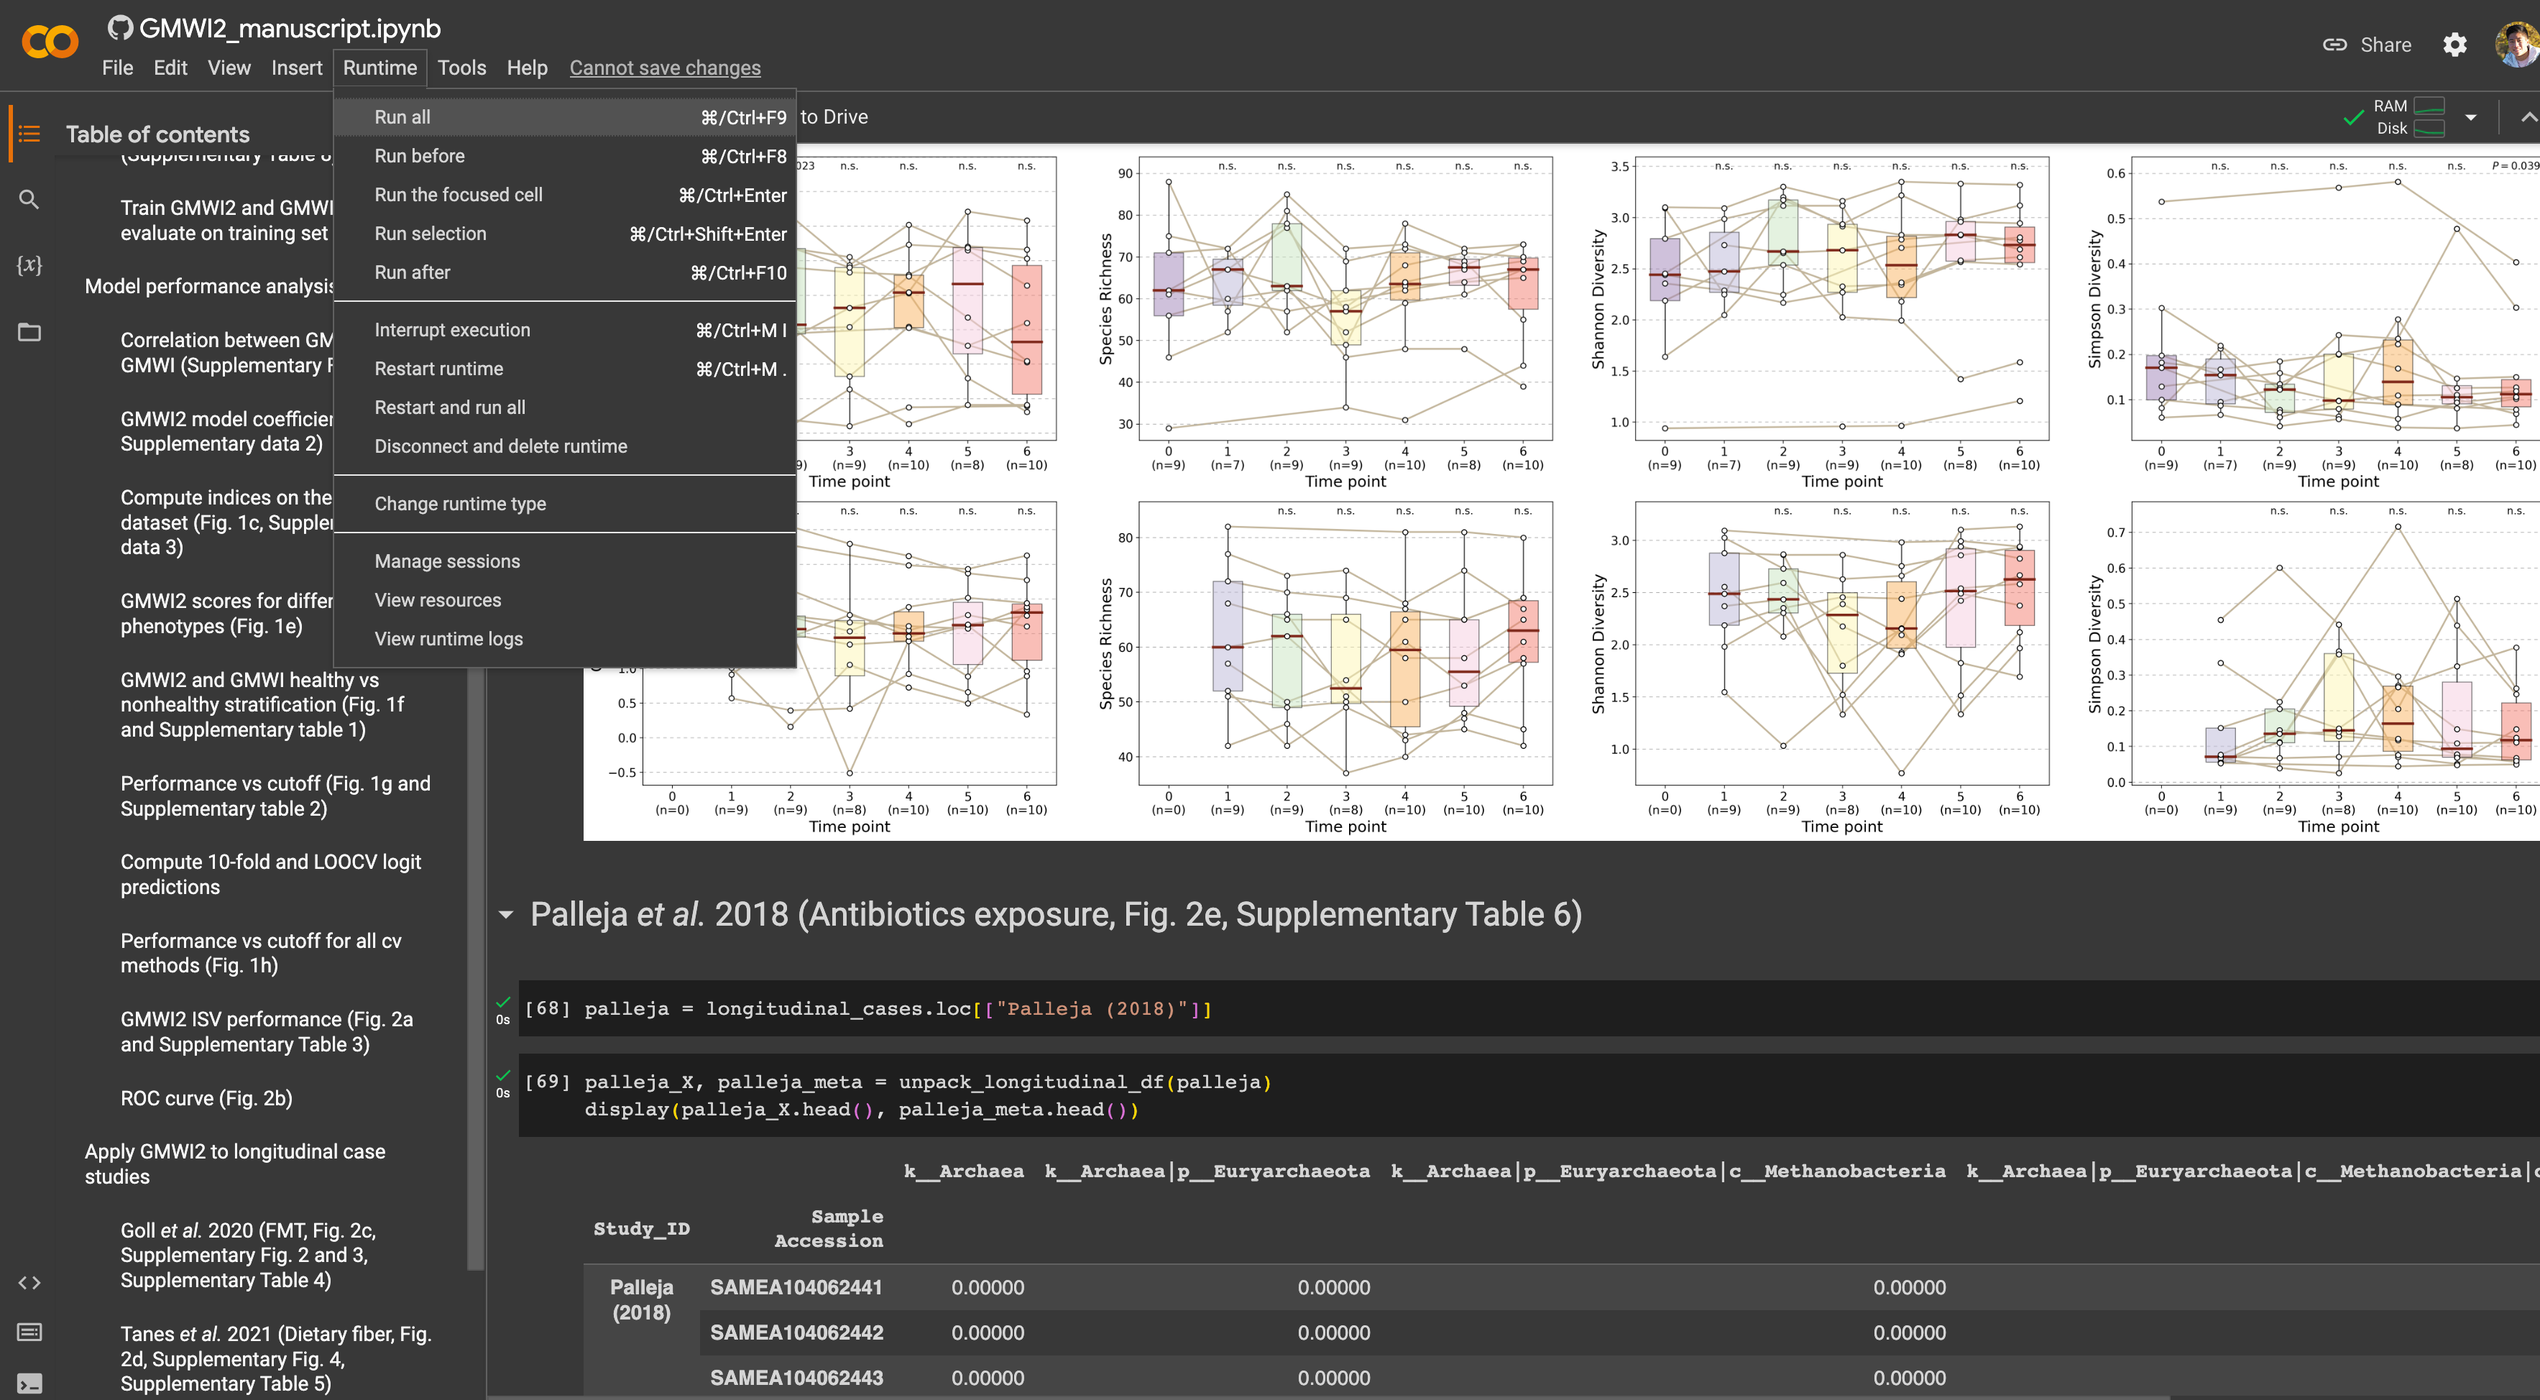
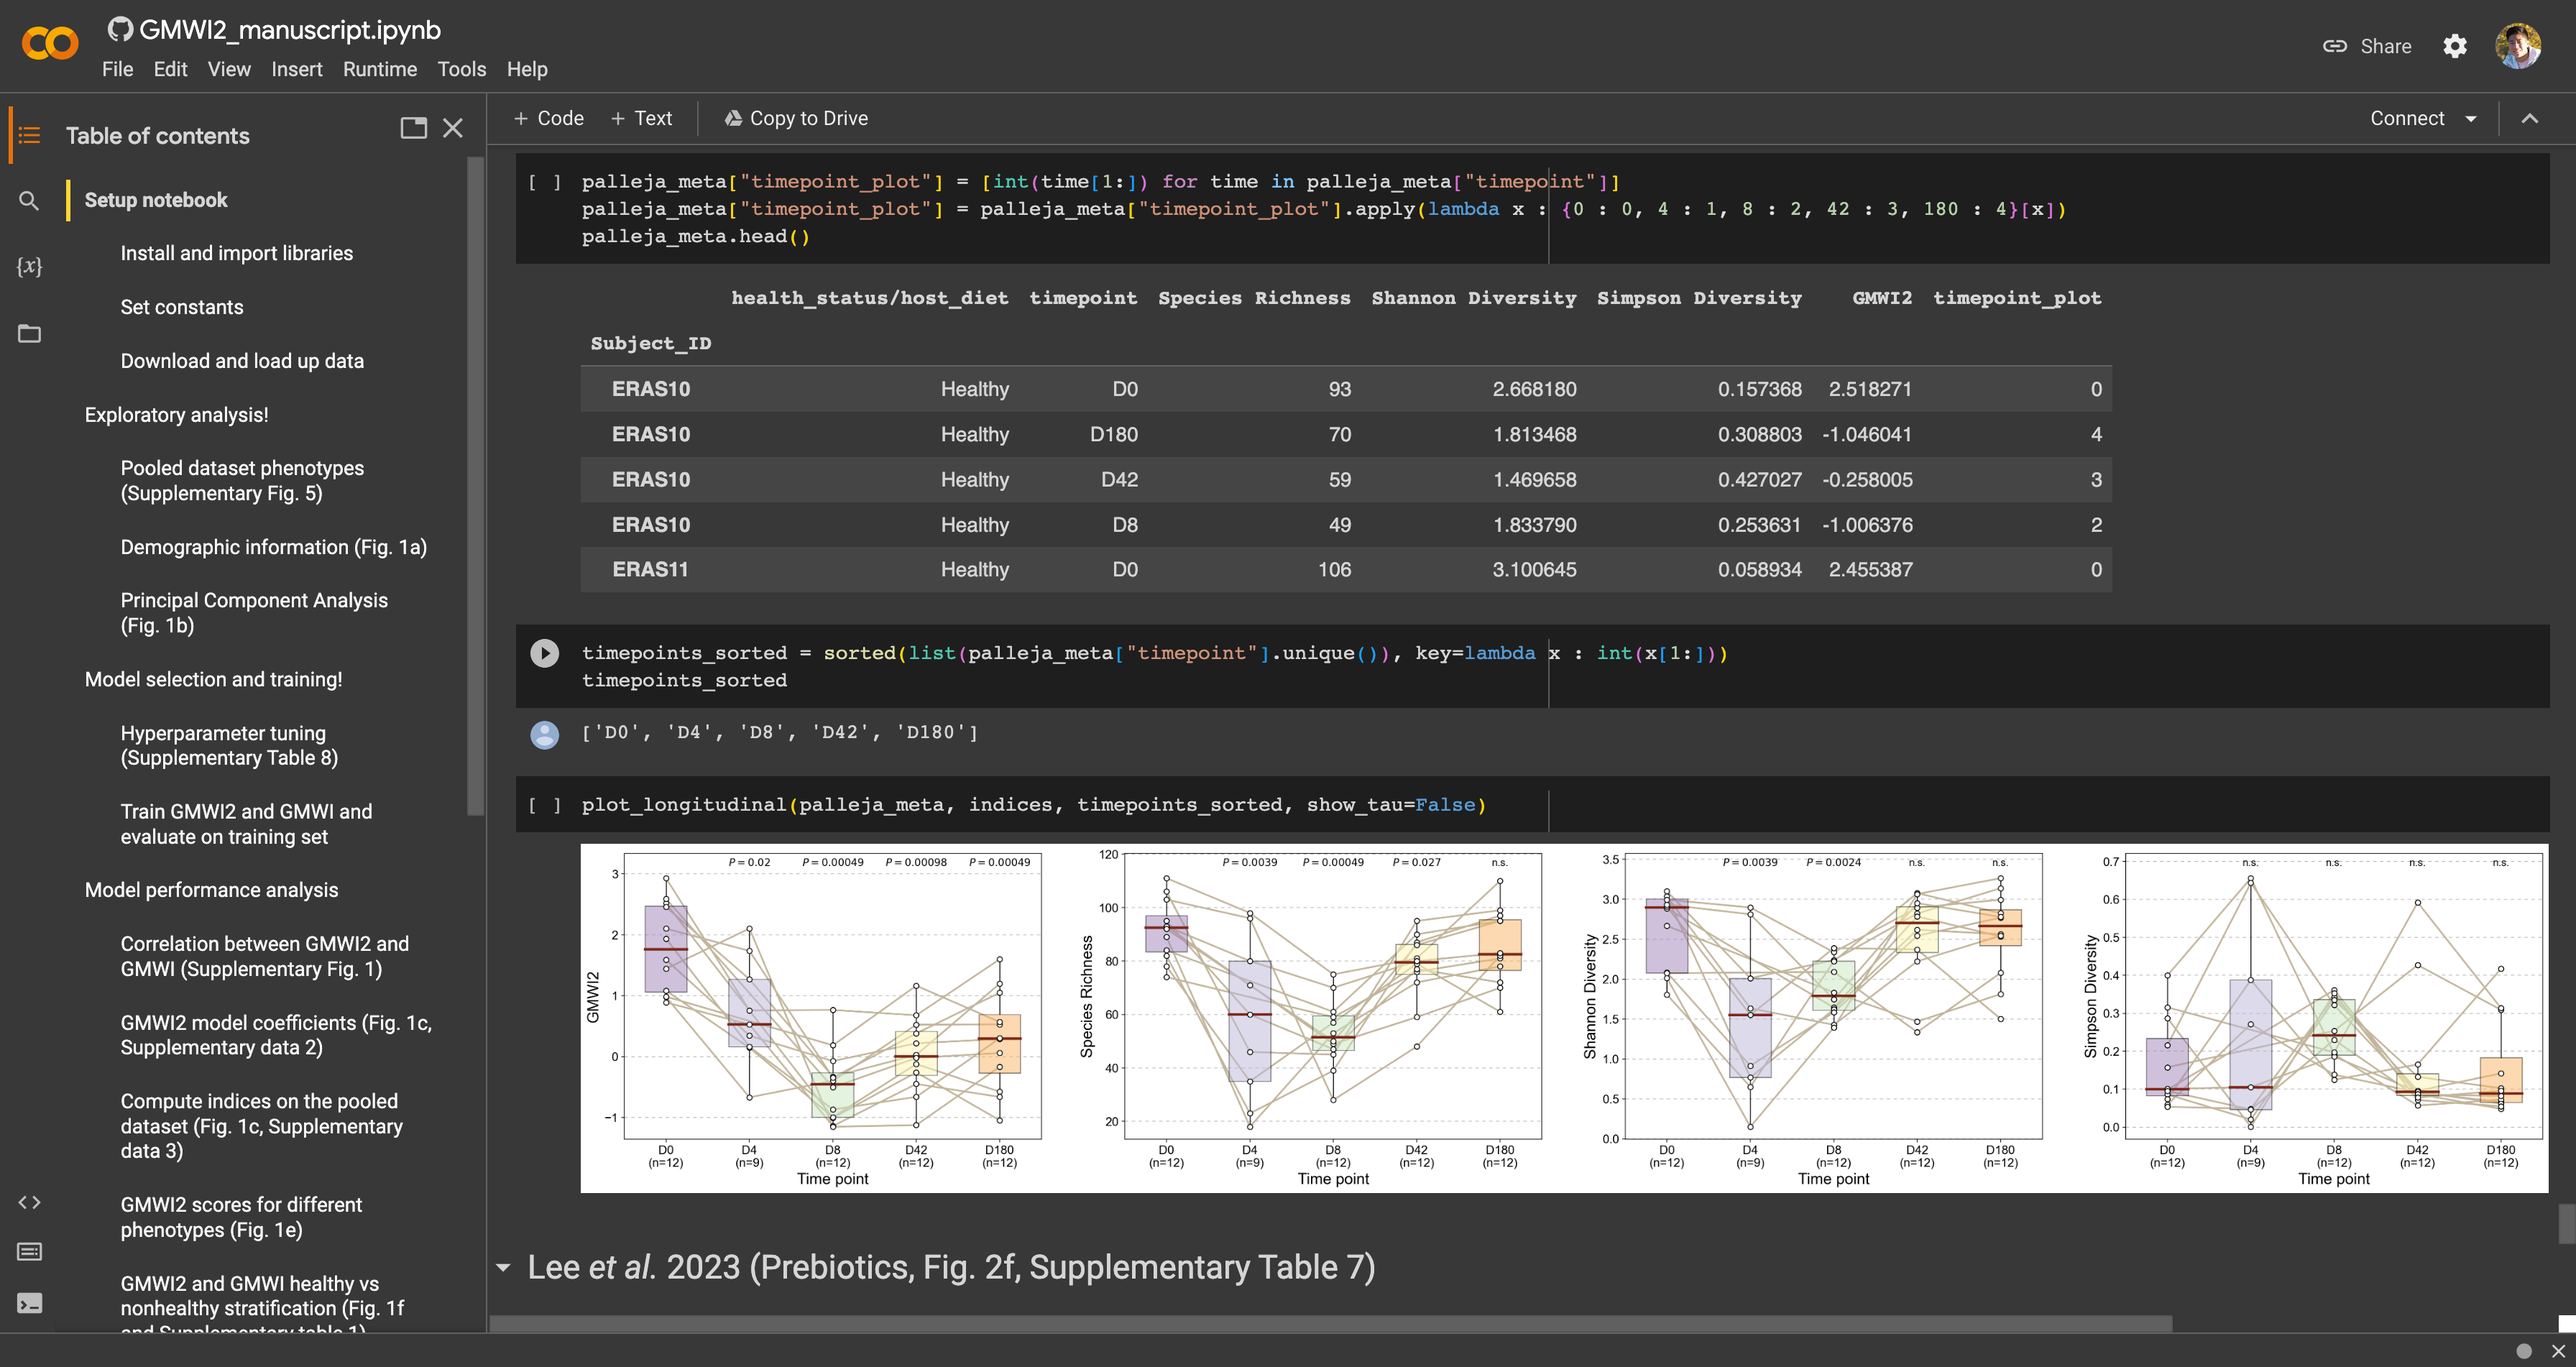
:book: readme

diff --git a/manuscript/README.md b/manuscript/README.md
@@ -5,6 +5,8 @@ This directory contains processed datasets and code for generating figures and a
 ### Reproducing figures and analyses
 [![Open In Colab](https://colab.research.google.com/assets/colab-badge.svg)](https://colab.research.google.com/github/danielchang2002/GMWI2/blob/main/manuscript/GMWI2_manuscript.ipynb)
 
+![colab](../images/colab_screenshot.png)
+
 Please use the colab notebook linked above to reproduce all downstream analyses on the pooled dataset. 
 Alternatively, clone this repository (`git clone https://github.com/danielchang2002/GMWI2.git`) and run [GMWI2_manuscript.ipynb](./GMWI2_manuscript.ipynb) locally.
 

diff --git a/README.md b/README.md
@@ -109,6 +109,7 @@ echo "Sample,GMWI2" > merged.csv && for file in *GMWI2.txt; do echo "$(basename 
 ### Reproducing manuscript results
 
 [![Open In Colab](https://colab.research.google.com/assets/colab-badge.svg)](https://colab.research.google.com/github/danielchang2002/GMWI2/blob/main/manuscript/GMWI2_manuscript.ipynb)
+
 ![colab](./images/colab_screenshot.png)
 
 Please use the colab notebook linked above to reproduce all downstream analyses on the pooled dataset. 

diff --git a/manuscript_raw/README.md b/manuscript_raw/README.md
@@ -1,5 +1,7 @@
 # Raw code notebooks
 
+![panda](../images/panda.gif)
+
 This directory contains raw code notebooks used for the GMWI2 analysis. 
 
 ### Warning
